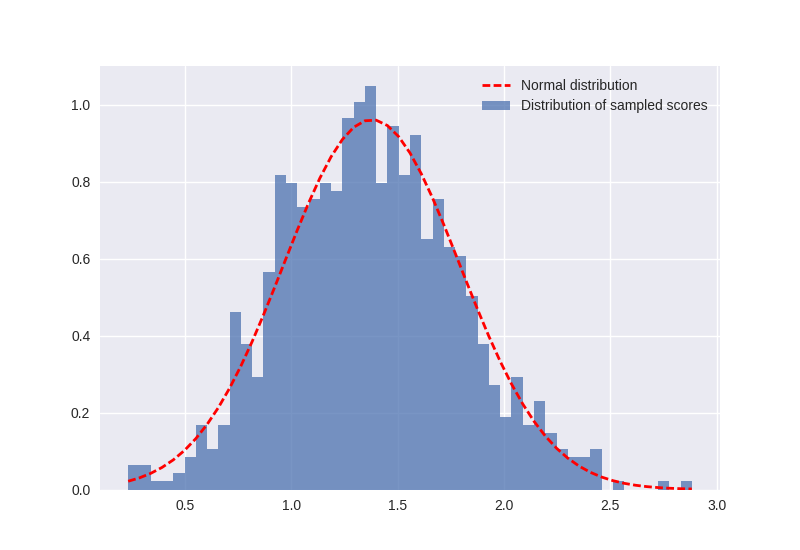
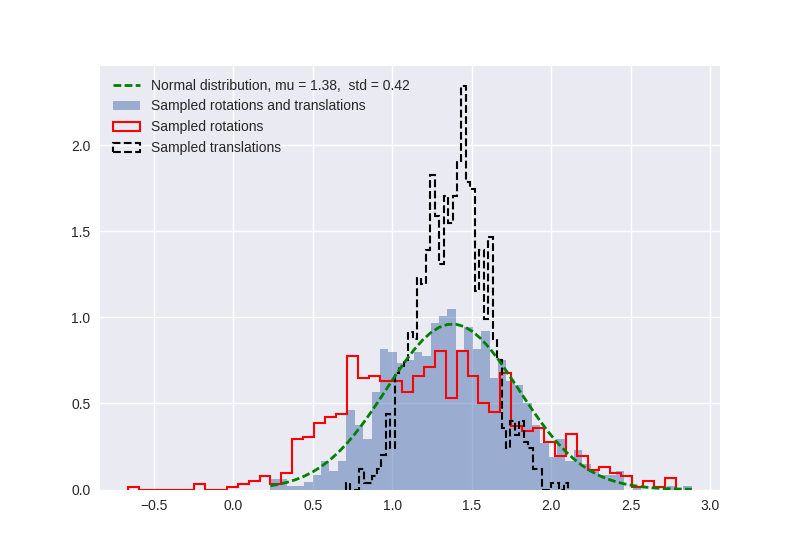
Draft update

diff --git a/draft/main.tex b/draft/main.tex
@@ -109,7 +109,7 @@ $$
      & & TRPCZ3, TYRCD1, TYRCD2, TYRCE1 \\
      & & TYRCE2, TYRCG, TYRCZ \\ \hline
     11 & Sp3 carbon & ALACB, ARGCB, ARGCG, ARGCD \\
-     & & ASNCB, ASPCB, GLNCB, GLNCG\\
+     & & ASNCB, ASPCB, GLNCB, GLNCG \\
      & & GLUCB, GLUCG, HISCB, HISCB \\
      & & ILECB, ILECD1, ILECG1, ILECG2 \\
      & & LEUCB, LEUCD1, LEUCD2, LEUCG \\
@@ -128,6 +128,16 @@ $$
     \label{Tbl:atomTypes}
 \end{center}
 \end{table}
+Figure \ref{Fig:atomic_densities} shows an example of atomic densities. 
+The protein used for visualization has PDB code 5eh6. Only non-zero densities are shown.
+
+\begin{figure}[H]
+    \centering
+    \includegraphics[width=\linewidth]{Fig/atomic_densities.png}
+    \caption{The example of the representation of a protein using atomic densities. The density map is 
+    shown using the volumetric rendering plugin for PyMol. The pdb-code of the protein used for this visualization is 5eh6.}
+    \label{Fig:atomic_densities}
+\end{figure}
 
 \subsection{Loss functions}
 We evaluated two scoring functions: linear regression and ranking scoring function. 
@@ -215,11 +225,11 @@ The table \ref{Tbl:TrainingResults} summarizes the performance metrics on the tr
 
 \begin{table}[H]
 \begin{center}
-\begin{tabular}{ c | c | c | c | c | c }
+\begin{tabular}{ c | c | c | c | c }
     Data subset & Loss & Pearson & Spearmann & Kendall \\
     \hline
-    &Training set     &0.146 &0.71 &0.61 &0.45 \\
-    &Validation set   &0.135 &0.71 &0.59 &0.44 \\ \hline
+    Training set     &0.146 &0.71 &0.61 &0.45 \\
+    Validation set   &0.135 &0.71 &0.59 &0.44 \\ \hline
 
 \end{tabular}
   \caption {Results of the model from epoch 40 on the training and validation subsets.}
@@ -229,7 +239,8 @@ The table \ref{Tbl:TrainingResults} summarizes the performance metrics on the tr
 
 \section{Results}
 During the training of the model we randomly sampled rotational and translational degrees of freedom of a decoy structure. Ideally, we 
-want the score assigned by the model to a decoy to be invariant under these transformations. However Fig \ref{} shows that the distribution
+want the score assigned by the model to a decoy to be invariant under these transformations. However Fig \ref{Fig:ScoreDistribution} 
+shows that the distribution
 of scores under rotations and translations follows the gaussian distribution. Therefore, to approximate the average score of a decoy we 
 sample a score under random translation and rotation 20 times for each decoy in the test set. The final score is then the average of these 
 samples.
@@ -237,10 +248,11 @@ samples.
 \begin{figure}[H]
     \centering
     \includegraphics[width=\linewidth]{Fig/sampling_dist.png}
-    \caption{The distribution of scores under random translations and rotations of the decoy LOOPP\_TS1 for the target T0342. The raw data
-    is show with the histogram. The fitted normal distribution is show with the dashed line. The fitted parameters of the normal distribution are:
-    the average $\mu = 1.38$ and the standard deviation $\sigma = 0.42$.}
-    \label{Fig:TrainingLoss}
+    \caption{The distribution of scores under random translations and rotations of the decoy LOOPP\_TS1 for the target T0342. The distributions 
+    os scores under rotations only and translations only are shown with the dashed and solid lines respectively.
+    The normal distribution fitted into the sampled scores under both rotations and translations is show with the dashed line. 
+    The parameters of the normal distribution are: the average $\mu = 1.38$ and the standard deviation $\sigma = 0.42$.}
+    \label{Fig:ScoreDistribution}
 \end{figure}
 
 

diff --git a/scripts/Figures/plotTsne.py b/scripts/Figures/plotTsne.py
@@ -22,6 +22,7 @@ from operator import itemgetter
 from plotTrainingProcess import read_dataset_description, read_epoch_output
 from sklearn.preprocessing import normalize
 import matplotlib.patches as mpatches
+import matplotlib.cm as cm
 
 def Hbeta(D = Math.array([]), beta = 1.0):
 	"""Compute the perplexity and the P-row for a specific value of the precision of a Gaussian distribution."""
@@ -243,25 +244,25 @@ if __name__ == "__main__":
 									Processes the activations written in a file and embeds them in 2D.
 									""")
 	parser.add_argument('--experiment_name', metavar='experiment_name', type=str, 
-                   help='Experiment name', default='QA')
+                   help='Experiment name', default='QA_uniform')
 	parser.add_argument('--training_dataset_name', metavar='training_dataset_name', type=str, 
                    help='Dataset name used for training', default='CASP_SCWRL')
 	parser.add_argument('--training_model_name', metavar='training_model_name', type=str, 
                    help='Model used for training', default='ranking_model_8')
 	parser.add_argument('--embed_dataset_name', metavar='embed_dataset_name', type=str, 
-                   help='Dataset used for embedding', default='AgregateDataset')
+                   help='Dataset used for embedding', default='CASP11Stage2_SCWRL')
 	parser.add_argument('--embed_name', metavar='embed_name', type=str, 
                    help='Additional label for embedding', default='_native_activations')
 	parser.add_argument('-generate', metavar='generate', type=bool, 
                    help='Generate embedding', default=False)
 	parser.add_argument('-pca', metavar='generate', type=bool, 
-                   help='Generate embedding', default=False)
+                   help='Generate embedding', default=True)
 	parser.add_argument('-visualize', metavar='visualize', type=bool, 
                    help='Visualize embedding', default=False)
 	parser.add_argument('-clusters', metavar='clusters', type=bool, 
                    help='Get clusters', default=False)
 	parser.add_argument('-decoys', metavar='decoys', type=bool, 
-                   help='Get clusters and rerun t-sne on them', default=False)
+                   help='Get clusters and rerun t-sne on them', default=True)
 	parser.add_argument('-folds', metavar='folds', type=bool, 
                    help='Plot tsne with folds', default=False)
 	
@@ -283,7 +284,7 @@ if __name__ == "__main__":
 		if args.decoys:
 			dataset_proteins, decoys = read_dataset_description('/home/lupoglaz/ProteinsDataset/%s/Description'%args.embed_dataset_name,'datasetDescription.dat')		
 			loss_function_values, decoys_scores = read_epoch_output(os.path.join(experiment_dir,
-																	'CASP11Stage1_SCWRL_native_activations/epoch_0.dat'))
+																	'CASP11Stage2_SCWRL_native_activations/epoch_0.dat'))
 			C = Math.zeros( (X.shape[0],))
 			for n,protein_path in enumerate(proteins):
 				i_end = protein_path.rfind('/')
@@ -293,8 +294,9 @@ if __name__ == "__main__":
 				
 			fig = plt.figure(figsize=(10,10))
 			ax = fig.add_subplot(111, projection='3d')
-			ax.scatter(Y[:,0], Y[:,1], Y[:,2], c=C)
+			plot = ax.scatter(Y[:,0], Y[:,1], Y[:,2], c=C, cmap="jet_r")
 			# plt.scatter(Y[:,0], Y[:,1])
+			plt.colorbar(plot)
 			plt.savefig(figure_pca_output_file)
 		else:
 			fig = plt.figure(figsize=(10,10))

diff --git a/scripts/Figures/plotSamplingDistribution.py b/scripts/Figures/plotSamplingDistribution.py
@@ -77,6 +77,15 @@ def plot_test_results(	experiment_name = 'QA',
 	output_path = '../../models/%s_%s_%s/%s_funnels.png'%(experiment_name, model_name, trainig_dataset_name, test_dataset_name+suffix)
 	plotFunnels(proteins, decoys, decoys_scores_average, output_path)
 
+def read_samples(data_path):
+	data = []
+	with open(data_path, 'r') as f:
+		f.readline()
+		for line in f:
+			sline = line.split()
+			data.append(float(sline[-1]))
+	return data
+
 if __name__=='__main__':
 	from scipy.stats import norm
 	experiment_name = 'QA_uniform'
@@ -91,22 +100,27 @@ if __name__=='__main__':
 	# 					decoy_ranging_column = 'gdt-ts',
 	# 					suffix = '_sampling')
 	
-	data_path = '../../models/%s_%s_%s/%s/epoch_0.dat'%(	experiment_name, model_name, dataset_name,
+	data_path_rt = '../../models/%s_%s_%s/%s/rot_trans_sampling_T1D1.dat'%(	experiment_name, model_name, dataset_name,
 															test_dataset_name)
-	data = []
-	with open(data_path, 'r') as f:
-		f.readline()
-		for line in f:
-			sline = line.split()
-			data.append(float(sline[-1]))
+	data_path_t = '../../models/%s_%s_%s/%s/trans_sampling_T1D1.dat'%(	experiment_name, model_name, dataset_name,
+															test_dataset_name)
+	data_path_r = '../../models/%s_%s_%s/%s/rot_sampling_T1D1.dat'%(	experiment_name, model_name, dataset_name,
+															test_dataset_name)
+	data_rt = read_samples(data_path_rt)
+	data_r = read_samples(data_path_r)
+	data_t = read_samples(data_path_t)
+	
 
-	n, bins, patches = plt.hist(data, 50, normed=1, alpha=0.75, label='Distribution of sampled scores')
-	mu, std = norm.fit(data)
+	n, bins_rt, patches_rt = plt.hist(data_rt, 50, normed=1, alpha=0.5, fill=True, label='Sampled rotations and translations')
+	n, bins_r, patches_r = plt.hist(data_r, 50, normed=1, histtype='step', linestyle=('solid'),color=('red'), lw=1.5, alpha=1.0, fill=False, label='Sampled rotations')
+	n, bins_t, patches_t = plt.hist(data_t, 50, normed=1, histtype='step', linestyle=('dashed'),color=('black'), lw=1.5, alpha=1.0, fill=False, label='Sampled translations')
+	
+	mu, std = norm.fit(data_rt)
 	# mu, sigma = 1.4, 0.4
-	y = mlab.normpdf( bins, mu, std)
-	l = plt.plot(bins, y, 'r--', linewidth=2, label='Normal distribution')
-	title = "Fit results: mu = %.2f,  std = %.2f" % (mu, std)
-	plt.title(title)
-	plt.legend()
-	plt.show()
-	# plt.savefig('sampling_dist.png')
+	y = mlab.normpdf( bins_rt, mu, std)
+	l = plt.plot(bins_rt, y, 'r--', linewidth=2, color=('green'), label='Normal distribution, mu = %.2f,  std = %.2f' % (mu, std))
+	# title = "Fit results: mu = %.2f,  std = %.2f" % (mu, std)
+	# plt.title(title)
+	plt.legend(loc = 2)
+	# plt.show()
+	plt.savefig('sampling_dist.png')
